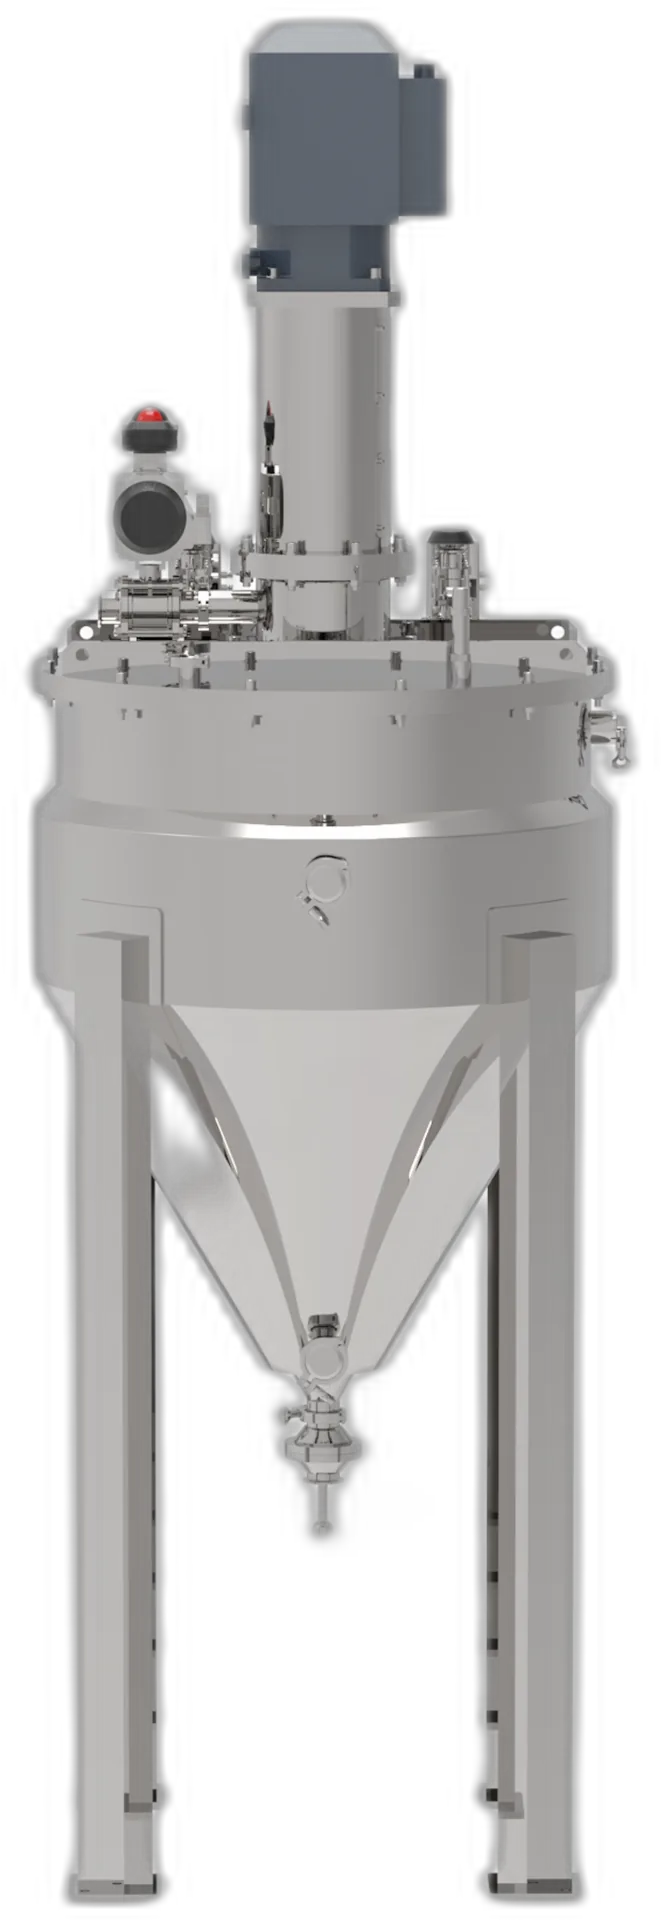
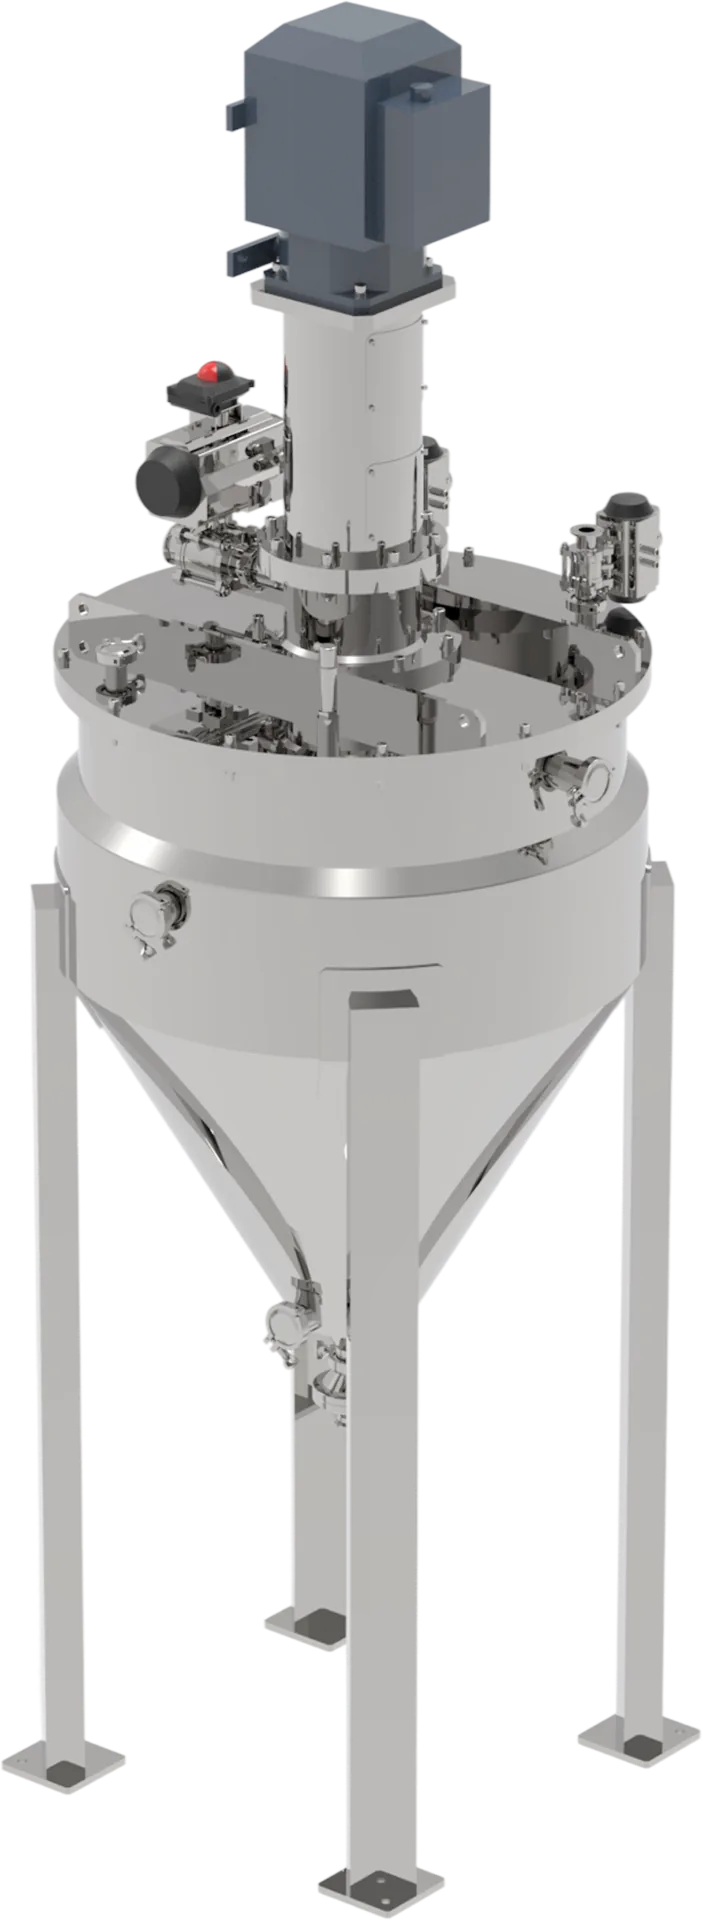
feat: 系统三视图模块 + 三视图卡片优化 + 产品图尺寸/抠图细化
系统详情页
- 5 个系统页（PD/管线式/高速循环/双螺杆/干法电极）新增三视图模块，
  图片取自客户「系统图-*」白底原图，置于「系统特点」上方
- 逐页校正系统三视图的正/侧/俯视图与图片对应关系
- 高速循环系统页视频模块先隐藏（SHOW_VIDEO=false）

三视图卡片
- 图片 + 文字改为同一描边容器、上下布局，文字移到图片下方无背景
- 图片高度收紧（280px）、object-fit 适配容器高度、保留 8px 圆角

产品图
- 循环罐 A/B、高速分散机、电磁给料机、干法粉体混合机改用客户手动抠图
  （替换此前自动抠图，含 fuzz 裁掉四周杂散像素）
- 产品详情页「产品介绍」主图统一尺寸（368px）、去多余圆角
- 产品列表卡片图等比缩小（scale 0.72）
- 多处正/侧视图标签校正（生产/中试型双行星、双螺杆、各系统页）

其他
- 各产品/系统详情页 section 背景统一「一白一灰」交替节奏
- 干法电极粉体高速混合机产品介绍文案拆分为两条带序列点的要点

diff --git a/src/pages/DualPlanetaryMixerPage.jsx b/src/pages/DualPlanetaryMixerPage.jsx
@@ -196,8 +196,8 @@ const VARIANTS = {
     productImg: '/assets/images/products/pd-mixer/dual-planetary-mixer-mid.webp',
     imgAlt: '中试型双行星动力混合机',
     views: [
-      { src: '/assets/images/products/pd-mixer/dual-planetary-mixer-mid-tv1.webp', label: '正视图' },
-      { src: '/assets/images/products/pd-mixer/dual-planetary-mixer-mid-tv2.webp', label: '侧视图' },
+      { src: '/assets/images/products/pd-mixer/dual-planetary-mixer-mid-tv2.webp', label: '正视图' },
+      { src: '/assets/images/products/pd-mixer/dual-planetary-mixer-mid-tv1.webp', label: '侧视图' },
     ],
     intro1: '中试型双行星动力混合机面向中试放大与中等批量生产场景，集成液压升降系统，结构紧凑、产能灵活。',
     intro2: '工作容积 60L–200L，变频电机驱动，公转 + 自转 + 高速分散三重动力，工艺参数与量产机型保持一致，可直接复用至产线放大。',
@@ -299,7 +299,7 @@ export default function DualPlanetaryMixerPage({ variant = 'production' }) {
         <section className="page-section pdm-intro-section">
           <div className="page-container">
             <div className="pdm-intro-grid">
-              <div className="pdm-intro-visual pdm-intro-visual--photo fade-up fade-up-delay-1">
+              <div className="pdm-intro-visual pdm-intro-visual--photo pdm-intro-visual--sm fade-up fade-up-delay-1">
                 <img
                   src={v.productImg}
                   alt={v.imgAlt}
@@ -321,7 +321,7 @@ export default function DualPlanetaryMixerPage({ variant = 'production' }) {
         </section>
 
         {/* ===== 三视图 ===== */}
-        <section className="page-section">
+        <section className="page-section page-section--gray">
           <div className="page-container">
             <p className="section-en-label fade-up">Three Views</p>
             <h2 className="section-heading section-heading--center fade-up">三视图</h2>
@@ -330,7 +330,7 @@ export default function DualPlanetaryMixerPage({ variant = 'production' }) {
         </section>
 
         {/* ===== 产品特点 ===== */}
-        <SystemFeaturesSection features={features} title="产品特点" enLabel="Product Features" grayBg />
+        <SystemFeaturesSection features={features} title="产品特点" enLabel="Product Features" grayBg={false} />
 
         {/* ===== 参数汇总 ===== */}
         <section className="page-section page-section--gray">

diff --git a/src/pages/PipelinePulpingPage.jsx b/src/pages/PipelinePulpingPage.jsx
@@ -1,6 +1,7 @@
 import React, { useEffect } from 'react'
 import PageHero from '../components/PageHero'
 import Breadcrumb from '../components/Breadcrumb'
+import ProductThreeView from '../components/ProductThreeView'
 import SystemFeaturesSection from '../components/SystemFeaturesSection'
 import CoreEquipmentSection from '../components/CoreEquipmentSection'
 import TechInquirySection from '../components/TechInquirySection'
@@ -350,7 +351,7 @@ export default function PipelinePulpingPage() {
         ]} />
 
         {/* ===== 系统介绍（与 pd-pulping 同 section 类，padding/margin 一致）===== */}
-        <section className="page-section pdm-intro-section">
+        <section className="page-section pdm-intro-section page-section--gray">
           <div className="page-container">
             {/* banner：与视频等宽，图片靠底左缩放，文字右侧浮层 */}
             <div className="pp-intro-banner fade-up fade-up-delay-1">
@@ -378,6 +379,19 @@ export default function PipelinePulpingPage() {
                 title="红运 管线式制浆系统"
               />
             </div>
+          </div>
+        </section>
+
+        {/* ===== 系统三视图 ===== */}
+        <section className="page-section">
+          <div className="page-container">
+            <p className="section-en-label fade-up">Three Views</p>
+            <h2 className="section-heading section-heading--center fade-up">三视图</h2>
+            <ProductThreeView views={[
+              { src: `${IMG}/system-tv2.webp`, label: '正视图' },
+              { src: `${IMG}/system-tv3.webp`, label: '侧视图' },
+              { src: `${IMG}/system-tv1.webp`, label: '俯视图' },
+            ]} />
           </div>
         </section>
 
@@ -413,7 +427,7 @@ export default function PipelinePulpingPage() {
         ]} />
 
         {/* ===== 客户案例 ===== */}
-        <section className="page-section">
+        <section className="page-section page-section--gray">
           <div className="page-container">
             <p className="section-en-label fade-up">Case</p>
             <h2 className="section-heading section-heading--center fade-up">客户案例</h2>

diff --git a/src/styles/pages/pages.css b/src/styles/pages/pages.css
@@ -2378,7 +2378,7 @@
   object-fit: contain;
   padding: 0;
   background: #f8f8f8;
-  transform: scale(0.8);
+  transform: scale(0.72);
 }
 
 /* 卡片图片缩小到 90% */
@@ -2396,9 +2396,9 @@
   transform: scale(0.95);
 }
 
-/* contain 卡片图等比缩到 80%，hover 轻微放大 */
+/* contain 卡片图等比缩小，hover 轻微放大 */
 .product-card:hover .product-card-image--contain img {
-  transform: scale(0.86);
+  transform: scale(0.77);
 }
 
 .product-card-content {
@@ -5944,6 +5944,12 @@
   object-position: center;
 }
 
+/* 产品详情页（双行星）介绍图：尺寸与其余产品页统一、去圆角 */
+.pdm-intro-visual--sm {
+  height: 368px;
+  border-radius: 0;
+}
+
 /* ===== 设备配置图 ===== */
 .cp-diagram-wrap {
   padding: 32px;
@@ -7246,19 +7252,22 @@
   margin-top: 8px;
 }
 
+/* 图片 + 文字在同一个描边容器里，上下布局 */
 .three-view-item {
-  position: relative;
   flex: 1 1 0;
   min-width: 0;
   margin: 0;
+  display: flex;
+  flex-direction: column;
   background: #fff;
   border: 1px solid var(--zinc-200, #e4e4e7);
   border-radius: 8px;
   overflow: hidden;
 }
 
+/* 图片区：图片 fit 容器高度、完整显示不裁切 */
 .three-view-imgwrap {
-  aspect-ratio: 16 / 10;
+  height: 280px;
   display: flex;
   align-items: center;
   justify-content: center;
@@ -7271,19 +7280,20 @@
   display: block;
 }
 
-/* 视图名称压在卡片内部底端 */
+/* 视图名称：图片下方，同一容器内，无独立背景、无分隔线 */
 .three-view-caption {
-  position: absolute;
-  left: 0;
-  right: 0;
-  bottom: 0;
   text-align: center;
   font-size: 13px;
   font-weight: 500;
   letter-spacing: 0.02em;
   color: var(--zinc-700, #3f3f46);
-  padding: 18px 10px 10px;
-  background: linear-gradient(to top, rgba(255, 255, 255, 0.92) 40%, rgba(255, 255, 255, 0));
+  padding: 12px 10px;
+}
+
+@media (max-width: 768px) {
+  .three-view-imgwrap {
+    height: 200px;
+  }
 }
 
 @media (max-width: 768px) {

diff --git a/src/pages/CirculationPulpingPage.jsx b/src/pages/CirculationPulpingPage.jsx
@@ -7,6 +7,7 @@ import {
 } from 'nucleo-core-outline-24'
 import PageHero from '../components/PageHero'
 import Breadcrumb from '../components/Breadcrumb'
+import ProductThreeView from '../components/ProductThreeView'
 import SystemFeaturesSection from '../components/SystemFeaturesSection'
 import CoreEquipmentSection from '../components/CoreEquipmentSection'
 import TechInquirySection from '../components/TechInquirySection'
@@ -253,7 +254,7 @@ function ParamsTable() {
 }
 
 // 视频模块开关：true = 显示，false = 隐藏
-const SHOW_VIDEO = true
+const SHOW_VIDEO = false
 
 /* ========== 主页面 ========== */
 export default function CirculationPulpingPage() {
@@ -288,7 +289,7 @@ export default function CirculationPulpingPage() {
         ]} />
 
         {/* ===== 系统介绍 + 方案视频 ===== */}
-        <section className="page-section pdm-intro-section">
+        <section className="page-section pdm-intro-section page-section--gray">
           <div className="page-container">
             <div className="pdm-intro-grid">
               <div className="pdm-intro-visual fade-up fade-up-delay-1">
@@ -323,6 +324,19 @@ export default function CirculationPulpingPage() {
                 </div>
               </div>
             )}
+          </div>
+        </section>
+
+        {/* ===== 系统三视图 ===== */}
+        <section className="page-section">
+          <div className="page-container">
+            <p className="section-en-label fade-up">Three Views</p>
+            <h2 className="section-heading section-heading--center fade-up">三视图</h2>
+            <ProductThreeView views={[
+              { src: `${IMG}/system-tv3.webp`, label: '正视图' },
+              { src: `${IMG}/system-tv2.webp`, label: '侧视图' },
+              { src: `${IMG}/system-tv1.webp`, label: '俯视图' },
+            ]} />
           </div>
         </section>
 

diff --git a/src/pages/PDPulpingPage.jsx b/src/pages/PDPulpingPage.jsx
@@ -1,6 +1,7 @@
 import React, { useEffect } from 'react'
 import PageHero from '../components/PageHero'
 import Breadcrumb from '../components/Breadcrumb'
+import ProductThreeView from '../components/ProductThreeView'
 import SystemFeaturesSection from '../components/SystemFeaturesSection'
 import CoreEquipmentSection from '../components/CoreEquipmentSection'
 import TechInquirySection from '../components/TechInquirySection'
@@ -298,7 +299,7 @@ export default function PDPulpingPage() {
         ]} />
 
         {/* ===== 系统介绍 + 视频模块 ===== */}
-        <section className="page-section pdm-intro-section">
+        <section className="page-section pdm-intro-section page-section--gray">
           <div className="page-container">
             <div className="pdm-intro-grid">
               <div className="pdm-intro-visual pdm-intro-visual--photo fade-up fade-up-delay-1">
@@ -327,6 +328,19 @@ export default function PDPulpingPage() {
                 title="红运 PD 制浆系统"
               />
             </div>
+          </div>
+        </section>
+
+        {/* ===== 系统三视图 ===== */}
+        <section className="page-section">
+          <div className="page-container">
+            <p className="section-en-label fade-up">Three Views</p>
+            <h2 className="section-heading section-heading--center fade-up">三视图</h2>
+            <ProductThreeView views={[
+              { src: '/assets/images/solutions/pd-pulping/system-tv2.webp', label: '正视图' },
+              { src: '/assets/images/solutions/pd-pulping/system-tv1.webp', label: '侧视图' },
+              { src: '/assets/images/solutions/pd-pulping/system-tv3.webp', label: '俯视图' },
+            ]} />
           </div>
         </section>
 

diff --git a/src/pages/TwinScrewPulpingPage.jsx b/src/pages/TwinScrewPulpingPage.jsx
@@ -1,6 +1,7 @@
 import React, { useEffect, useState } from 'react'
 import PageHero from '../components/PageHero'
 import Breadcrumb from '../components/Breadcrumb'
+import ProductThreeView from '../components/ProductThreeView'
 import SystemFeaturesSection from '../components/SystemFeaturesSection'
 import TechInquirySection from '../components/TechInquirySection'
 
@@ -437,7 +438,7 @@ export default function TwinScrewPulpingPage() {
         ]} />
 
         {/* ===== 系统介绍 + 方案视频 ===== */}
-        <section className="page-section pdm-intro-section">
+        <section className="page-section pdm-intro-section page-section--gray">
           <div className="page-container">
             <div className="pdm-intro-grid">
               <div className="pdm-intro-visual tsp-intro-visual fade-up fade-up-delay-1">
@@ -487,6 +488,19 @@ export default function TwinScrewPulpingPage() {
                 </div>
               </div>
             )}
+          </div>
+        </section>
+
+        {/* ===== 系统三视图 ===== */}
+        <section className="page-section">
+          <div className="page-container">
+            <p className="section-en-label fade-up">Three Views</p>
+            <h2 className="section-heading section-heading--center fade-up">三视图</h2>
+            <ProductThreeView views={[
+              { src: `${IMG}/system-tv2.webp`, label: '正视图' },
+              { src: `${IMG}/system-tv1.webp`, label: '侧视图' },
+              { src: `${IMG}/system-tv3.webp`, label: '俯视图' },
+            ]} />
           </div>
         </section>
 

diff --git a/src/pages/DryPowderMixerPage.jsx b/src/pages/DryPowderMixerPage.jsx
@@ -1,6 +1,7 @@
 import React, { useEffect } from 'react'
 import PageHero from '../components/PageHero'
 import Breadcrumb from '../components/Breadcrumb'
+import ProductThreeView from '../components/ProductThreeView'
 import SystemFeaturesSection from '../components/SystemFeaturesSection'
 import TechInquirySection from '../components/TechInquirySection'
 
@@ -221,7 +222,7 @@ export default function DryPowderMixerPage() {
         ]} />
 
         {/* ===== 系统介绍 ===== */}
-        <section className="page-section pdm-intro-section">
+        <section className="page-section pdm-intro-section page-section--gray">
           <div className="page-container">
             <div className="fade-up" style={{ display: 'flex', flexDirection: 'column', gap: '40px' }}>
               <div style={{ maxWidth: '46%' }}>
@@ -239,6 +240,19 @@ export default function DryPowderMixerPage() {
                 />
               </div>
             </div>
+          </div>
+        </section>
+
+        {/* ===== 系统三视图 ===== */}
+        <section className="page-section">
+          <div className="page-container">
+            <p className="section-en-label fade-up">Three Views</p>
+            <h2 className="section-heading section-heading--center fade-up">三视图</h2>
+            <ProductThreeView views={[
+              { src: `${IMG}/system-tv2.webp`, label: '正视图' },
+              { src: `${IMG}/system-tv1.webp`, label: '侧视图' },
+              { src: `${IMG}/system-tv3.webp`, label: '俯视图' },
+            ]} />
           </div>
         </section>
 

diff --git a/src/pages/SsbDryMixerPage.jsx b/src/pages/SsbDryMixerPage.jsx
@@ -117,7 +117,7 @@ export default function SsbDryMixerPage() {
         <section className="page-section pdm-intro-section">
           <div className="page-container">
             <div className="fade-up" style={{ display: 'flex', gap: '60px', alignItems: 'flex-start', maxWidth: '1040px', margin: '0 auto' }}>
-              <div style={{ flex: '0 0 50%', height: '380px', display: 'flex', alignItems: 'center', justifyContent: 'center' }}>
+              <div style={{ flex: '0 0 50%', height: '368px', display: 'flex', alignItems: 'center', justifyContent: 'center' }}>
                 <img
                   src={`${IMG}/product-main.webp`}
                   alt="干法电极粉体高速混合机"
@@ -128,7 +128,8 @@ export default function SsbDryMixerPage() {
               <div style={{ flex: '1 1 0', minWidth: 0 }}>
                 <h2 className="pdm-intro-name fade-up fade-up-delay-1">干法电极粉体高速混合机</h2>
                 <ul className="cp-core-device-features fade-up fade-up-delay-2">
-                  <li>用于干法电极粉体纤维化、电解质原料的混合、破碎、包覆，无溶剂工艺，<br />大幅降低制造成本与能耗，超高速粉体混合机——纤维化技术的速度颠覆</li>
+                  <li>用于干法电极粉体纤维化、电解质原料的混合、破碎、包覆，无溶剂工艺</li>
+                  <li>大幅降低制造成本与能耗，超高速粉体混合机——纤维化技术的速度颠覆</li>
                 </ul>
               </div>
             </div>

diff --git a/src/pages/TwinScrewPulperPage.jsx b/src/pages/TwinScrewPulperPage.jsx
@@ -35,7 +35,7 @@ export default function TwinScrewPulperPage() {
         <section className="page-section pdm-intro-section">
           <div className="page-container">
             <div className="fade-up" style={{ display: 'flex', gap: '60px', alignItems: 'flex-start', maxWidth: '1040px', margin: '0 auto' }}>
-              <div style={{ flex: '0 0 50%', height: '380px', display: 'flex', alignItems: 'center', justifyContent: 'center' }}>
+              <div style={{ flex: '0 0 50%', height: '368px', display: 'flex', alignItems: 'center', justifyContent: 'center' }}>
                 <img
                   src={`${IMG}/product-render.webp`}
                   alt="双螺杆制浆机"
@@ -65,8 +65,8 @@ export default function TwinScrewPulperPage() {
             <p className="section-en-label fade-up">Three Views</p>
             <h2 className="section-heading section-heading--center fade-up">三视图</h2>
             <ProductThreeView views={[
-              { src: `${IMG}/product-tv1.webp`, label: '正视图' },
-              { src: `${IMG}/product-tv2.webp`, label: '侧视图' },
+              { src: `${IMG}/product-tv2.webp`, label: '正视图' },
+              { src: `${IMG}/product-tv1.webp`, label: '侧视图' },
             ]} />
           </div>
         </section>

diff --git a/src/pages/CpDisperserPage.jsx b/src/pages/CpDisperserPage.jsx
@@ -81,7 +81,7 @@ export default function CpDisperserPage() {
         <section className="page-section pdm-intro-section">
           <div className="page-container">
             <div className="fade-up" style={{ display: 'flex', gap: '60px', alignItems: 'flex-start', maxWidth: '1040px', margin: '0 auto' }}>
-              <div style={{ flex: '0 0 50%', height: '380px', display: 'flex', alignItems: 'center', justifyContent: 'center' }}>
+              <div style={{ flex: '0 0 50%', height: '368px', display: 'flex', alignItems: 'center', justifyContent: 'center' }}>
                 <img
                   src={`${IMG}/cp-disperser.webp`}
                   alt="高速循环高速分散机结构示意图"

diff --git a/src/pages/SsbExtruderPage.jsx b/src/pages/SsbExtruderPage.jsx
@@ -34,7 +34,7 @@ export default function SsbExtruderPage() {
         <section className="page-section pdm-intro-section">
           <div className="page-container">
             <div className="fade-up" style={{ display: 'flex', gap: '60px', alignItems: 'flex-start', maxWidth: '1040px', margin: '0 auto' }}>
-              <div style={{ flex: '0 0 50%', height: '380px', display: 'flex', alignItems: 'center', justifyContent: 'center' }}>
+              <div style={{ flex: '0 0 50%', height: '368px', display: 'flex', alignItems: 'center', justifyContent: 'center' }}>
                 <img
                   src={`${IMG}/core-device-02.webp`}
                   alt="双螺杆干法电极连续挤出机"

diff --git a/src/pages/HighSpeedDisperserPage.jsx b/src/pages/HighSpeedDisperserPage.jsx
@@ -77,7 +77,7 @@ export default function HighSpeedDisperserPage() {
         <section className="page-section pdm-intro-section">
           <div className="page-container">
             <div className="fade-up" style={{ display: 'flex', gap: '60px', alignItems: 'flex-start', maxWidth: '1040px', margin: '0 auto' }}>
-              <div style={{ flex: '0 0 50%', height: '380px', display: 'flex', alignItems: 'center', justifyContent: 'center' }}>
+              <div style={{ flex: '0 0 50%', height: '368px', display: 'flex', alignItems: 'center', justifyContent: 'center' }}>
                 <img
                   src={`${IMG}/disperser-view.webp`}
                   alt="管线式高速分散机"
